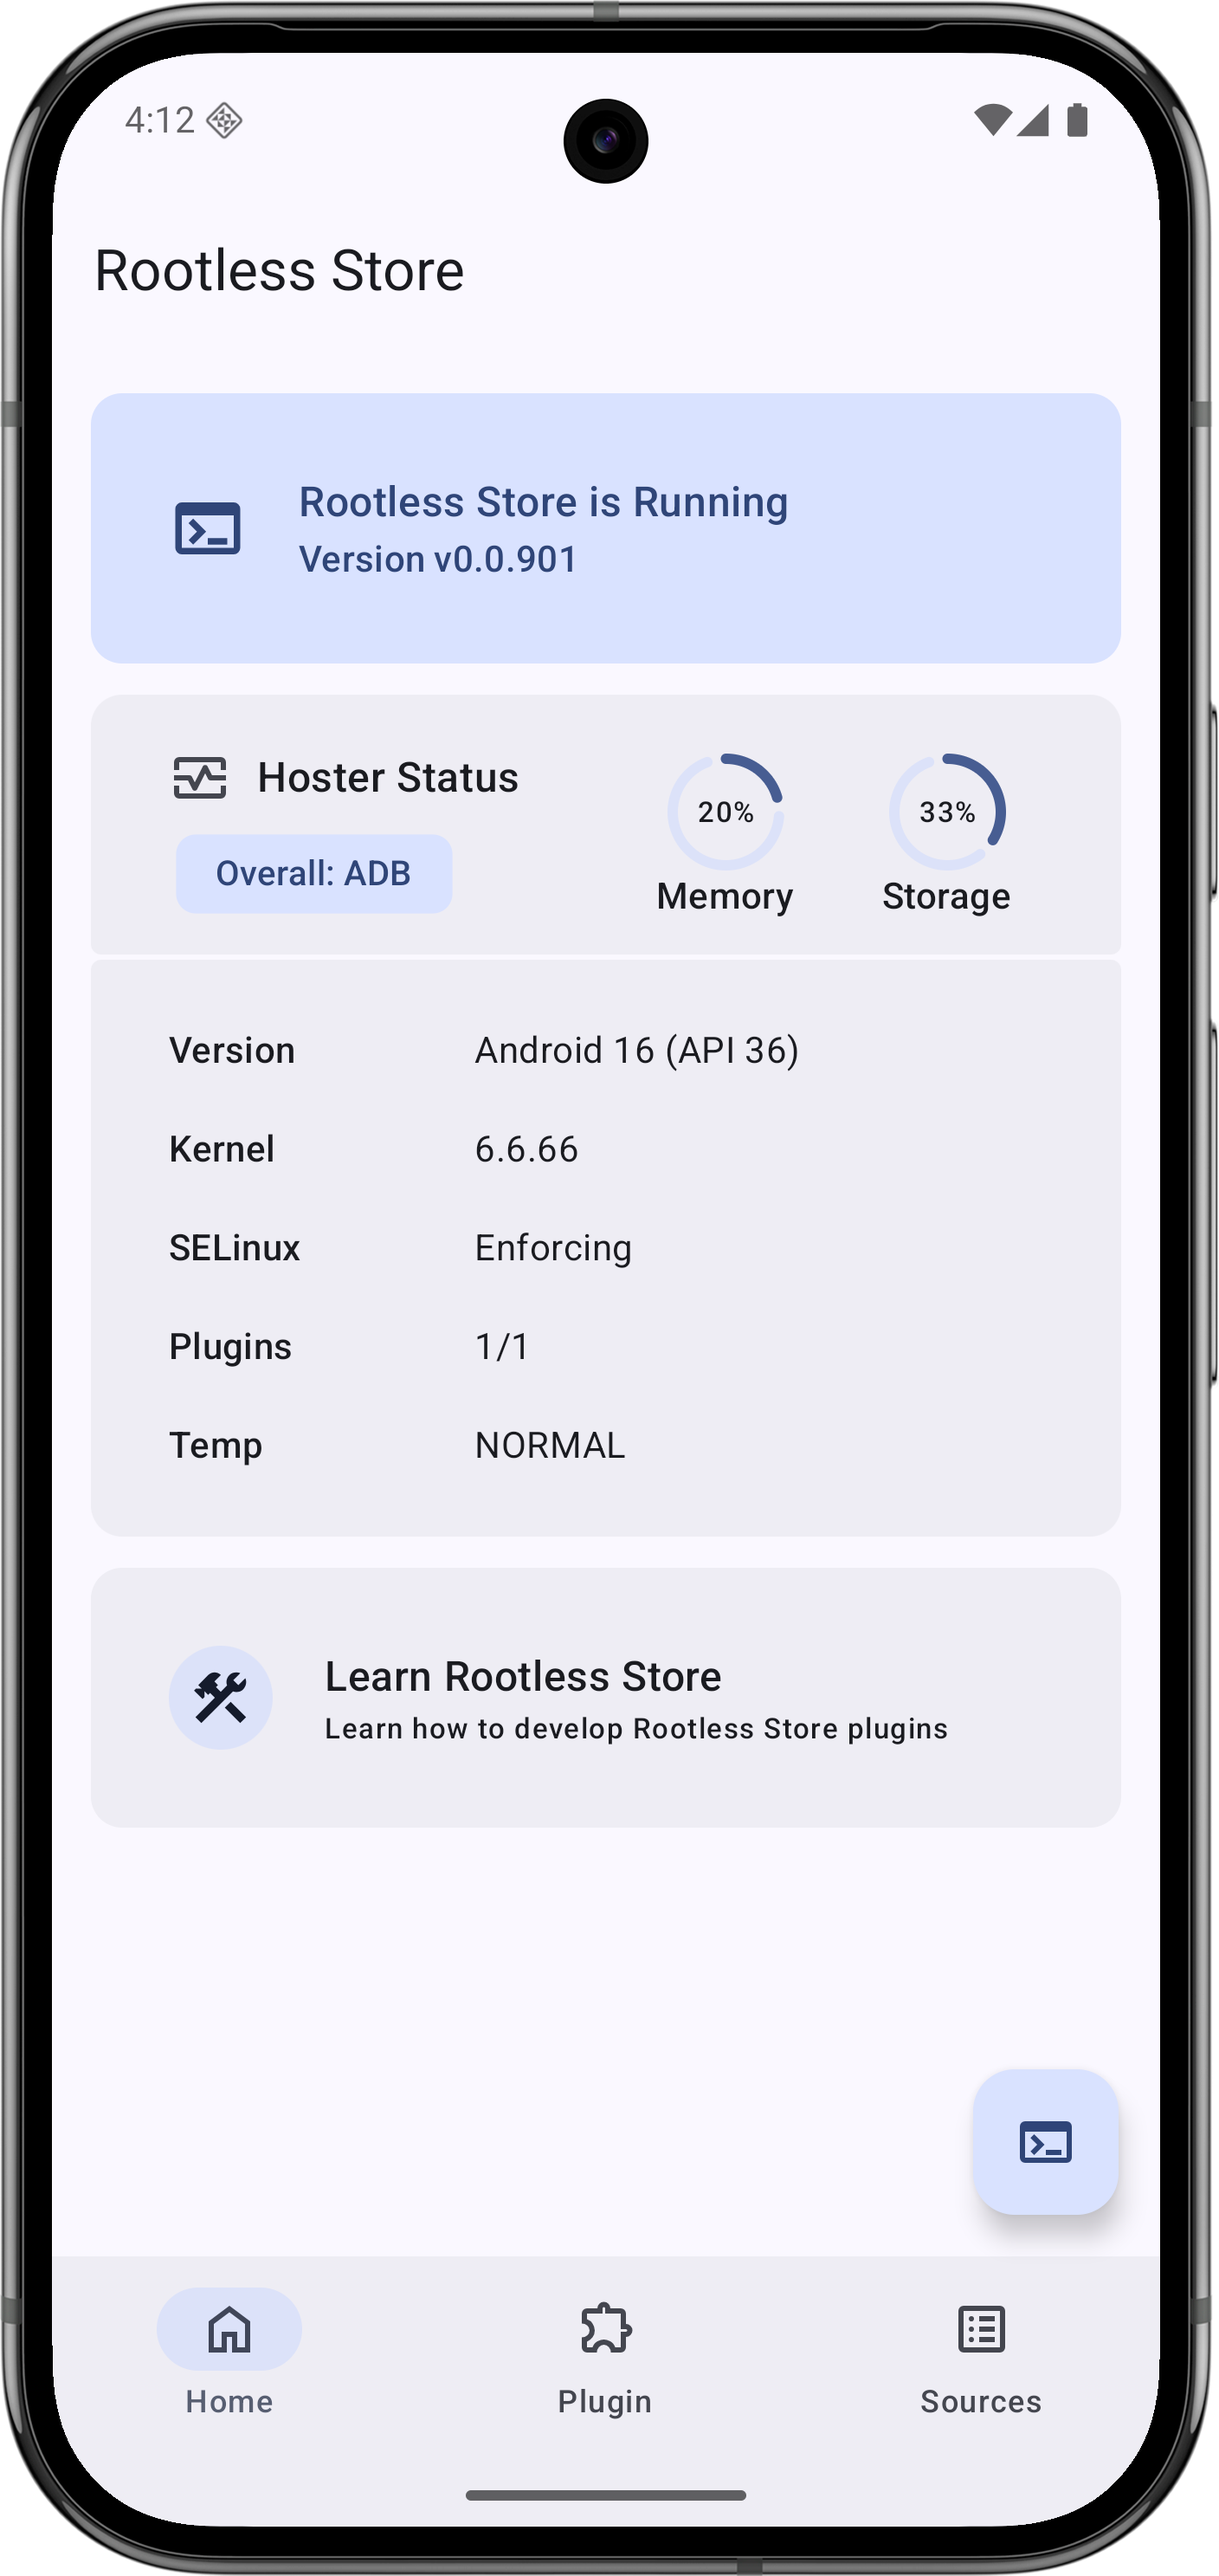
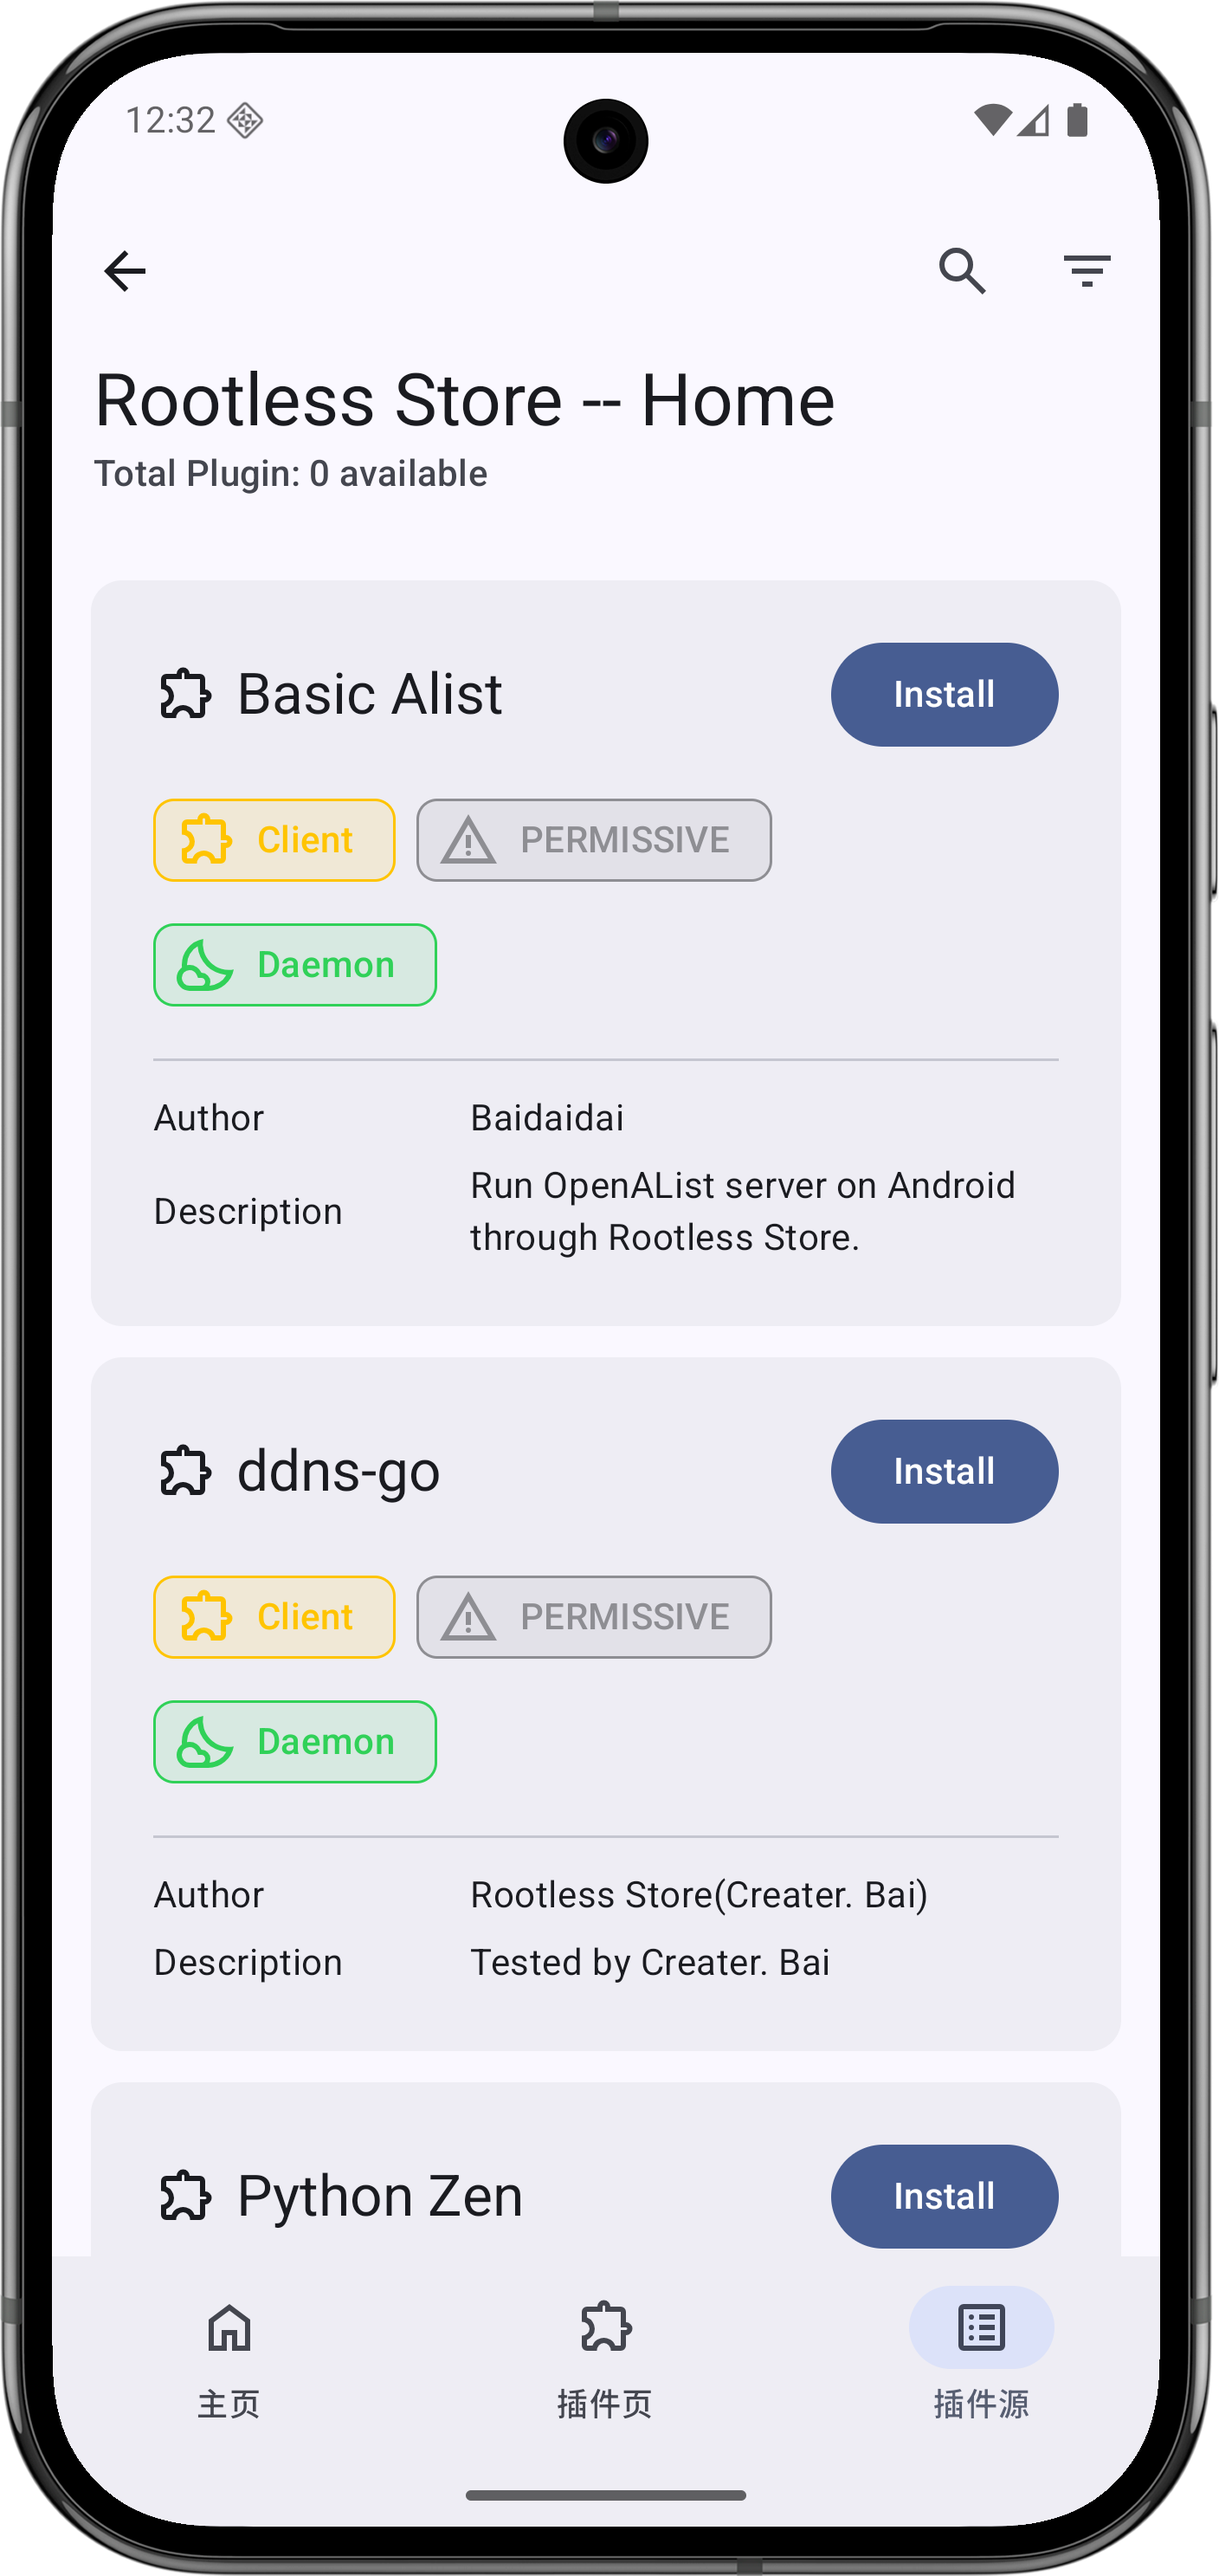
docs(readme): Update alpha overview and screenshots
Update the README progress checklist for market UI and private source support.
Refresh the overview screenshots with the current home and market screen images.

diff --git a/README.md b/README.md
@@ -8,7 +8,7 @@ An open-source, rootless plugin management and runtime platform for the Android 
 <p>
     <img src="/asset/picture/HomeScreen.png" width="32%" />
     <img src="/asset/picture/PluginScreen.png" width="32%" />
-    <img src="/asset/picture/SourceScreen.png" width="32%" />
+    <img src="/asset/picture/MarketScreen.png" width="32%" />
     <img src="/asset/picture/ExecuteScreen.png" width="32%" />
     <img src="/asset/picture/AdbShizukuScreen.png" width="32%" />
     <img src="/asset/picture/ShellScreen.png" width="32%" />
@@ -42,9 +42,9 @@ It stands on three core principles:
 - [x] Complete the core pages and documentation structure
 - [x] Establish the basic interfaces for Source and Market
 - [x] Build the initial runtime plugin development documentation
-- [ ] Improve the Market and plugin detail UI
+- [x] Improve the Market and plugin detail UI
 - [ ] Improve filtering, state feedback, and permission boundaries
-- [ ] Support private sources, invisible sources, and paid sources
+- [x] Support private sources, invisible sources, and paid sources
 - [ ] Publish to F-Droid
 
 ## Why I Built Rootless Store

diff --git a/asset/markdown/readme/README_zh-CN.md b/asset/markdown/readme/README_zh-CN.md
@@ -42,9 +42,9 @@ Rootless Store 想做的，不只是一个“装插件”的工具。
 - [x] 完成基础页面与文档结构
 - [x] 建立 Source 与 Market 的基础接口
 - [x] 建立运行时插件开发文档
-- [ ] 完善 Market 与插件详情UI更新
+- [x] 完善 Market 与插件详情UI更新
 - [ ] 完善过滤、状态反馈与权限边界
-- [ ] 支持私有源、不可见源与付费源
+- [x] 支持私有源、不可见源与付费源
 - [ ] 接入F-Droid
 
 ## 为什么我做了 Rootless Store？
